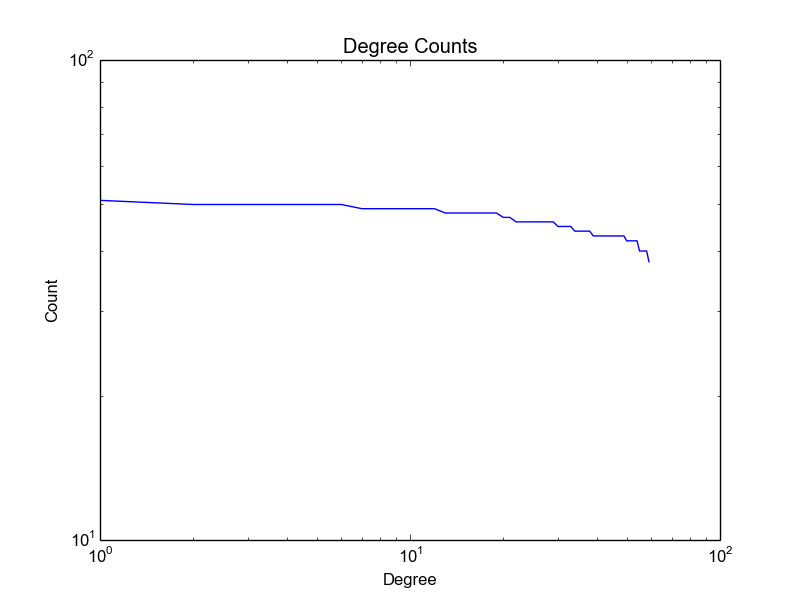
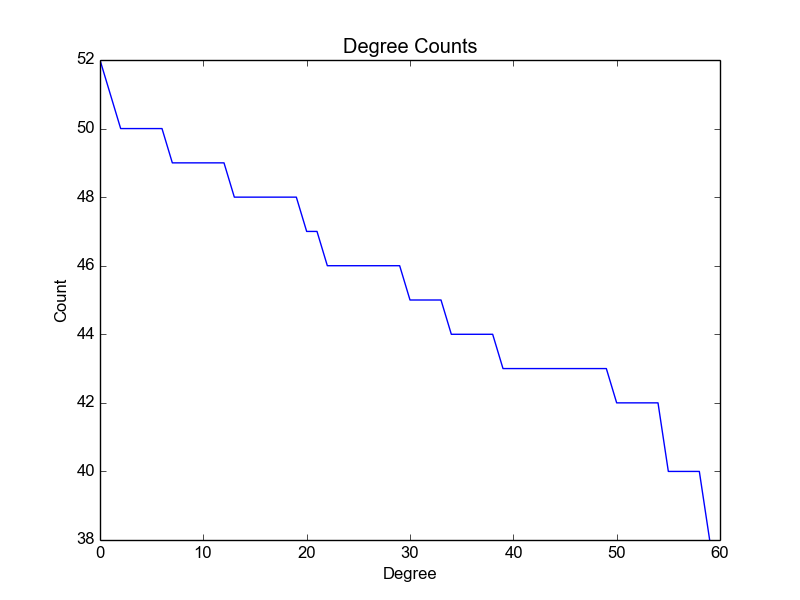
maybe try a spin glass?

diff --git a/degree.py b/degree.py
@@ -9,7 +9,7 @@ import numpy as np
 with open("fractal_edgelist.txt", "r") as net_file:
     net = nx.read_edgelist(net_file)
     degree_sequence=sorted(nx.degree(net).values(),reverse=True)
-    plt.loglog(degree_sequence, 'b-')
+    plt.plot(degree_sequence, 'b-')
     plt.title("Degree Counts")
     plt.xlabel("Degree")
     plt.ylabel("Count")
